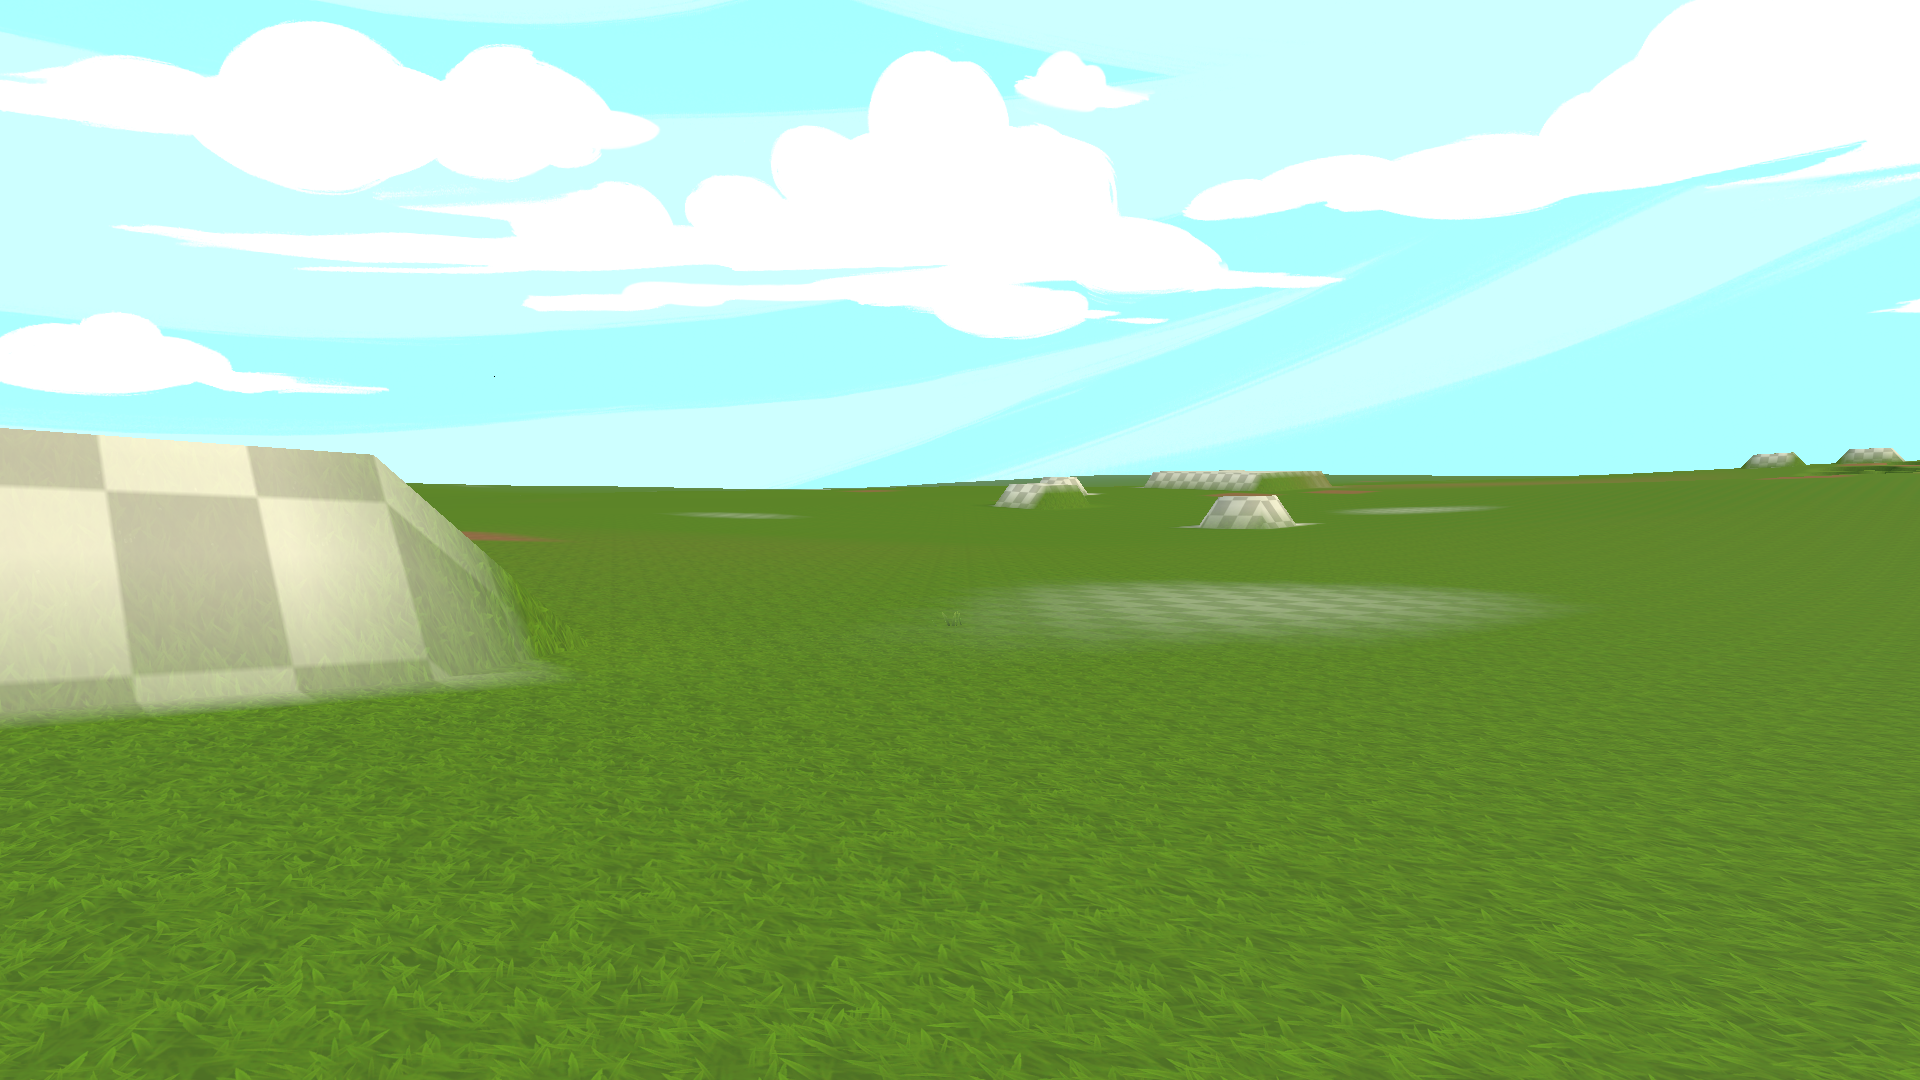
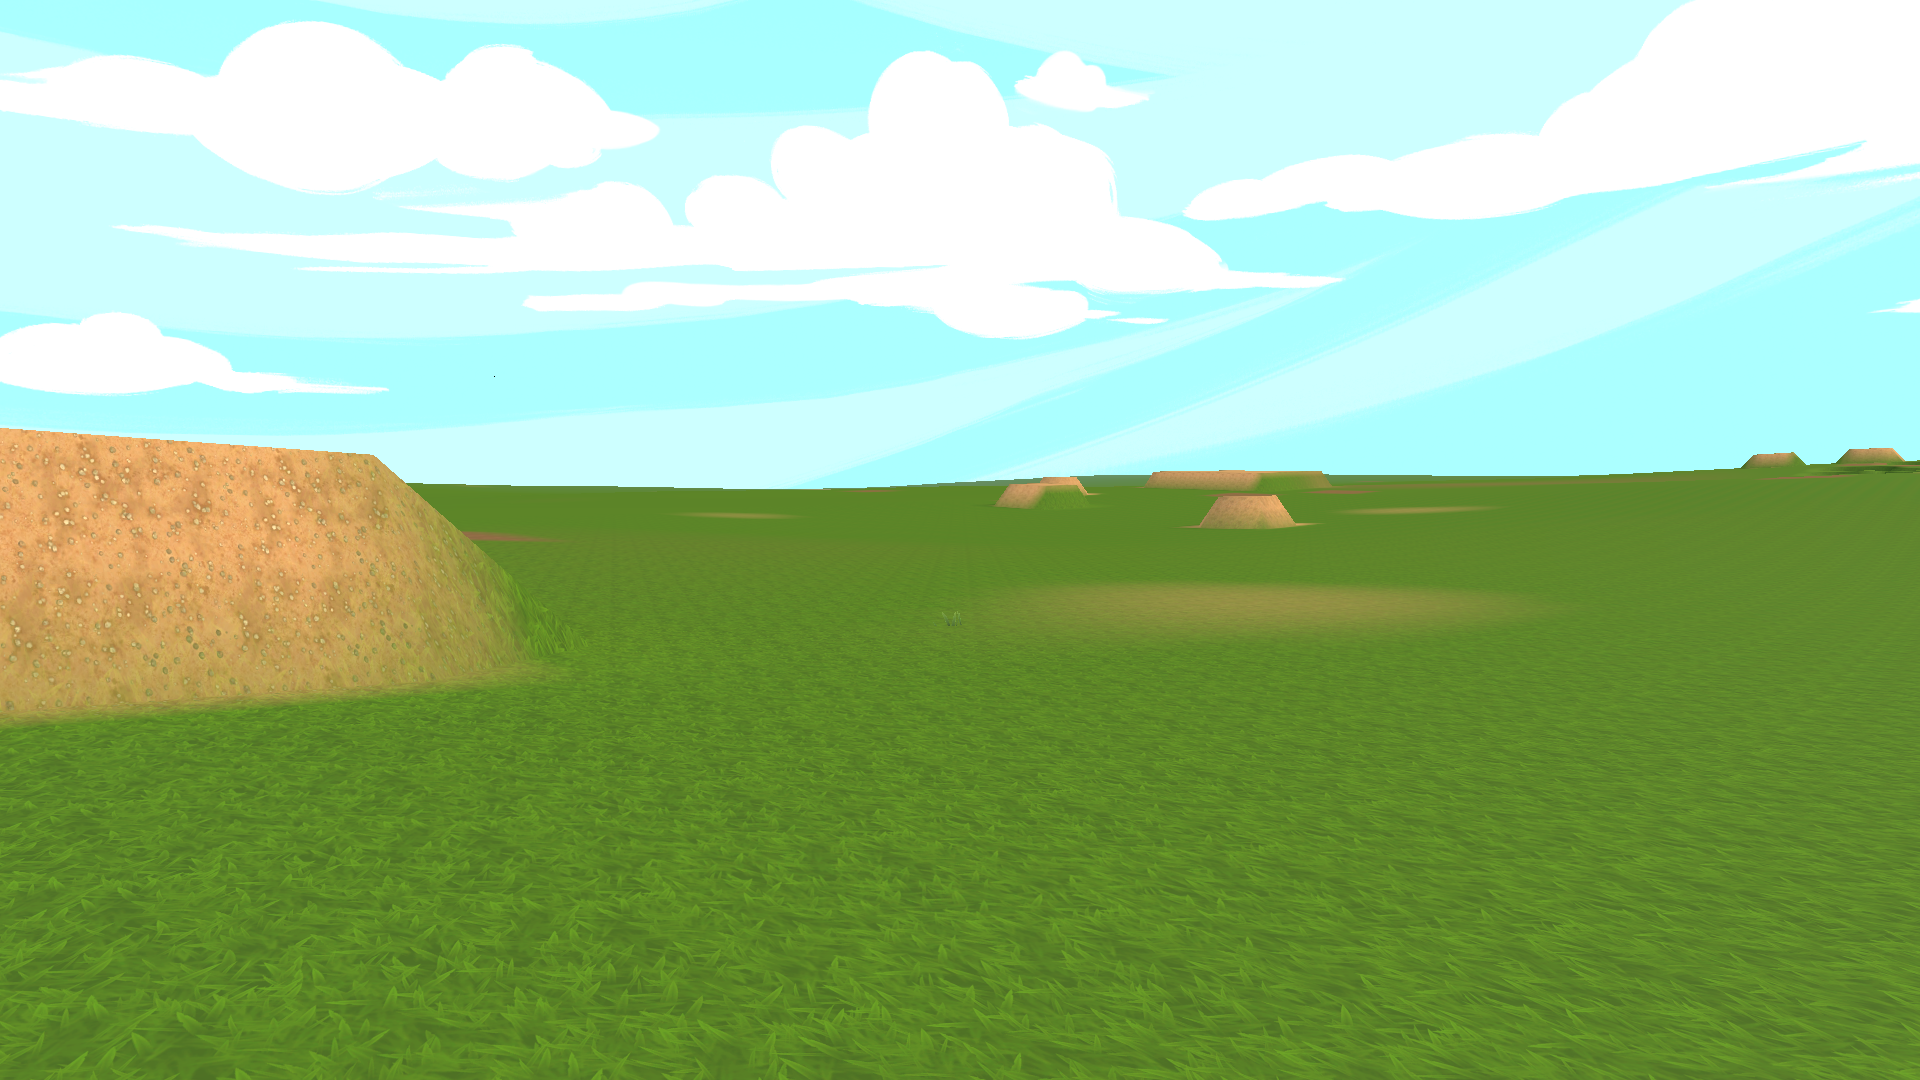
TD-100: THE WHITE THINGS WERE THE GROUND (D-213)
The answer to Patrik's "stones that are too big" — and it was never an object at all.

Layer_Rock and Layer_Cobblestone exist as terrain layer assets and carry NO DIFFUSE TEXTURE. The
alphamap paints Layer_Rock across every stone tile (313 of 7000, scattered over hills), so those
patches of GROUND rendered as flat white checker. From eye level they read as pale mounds sitting on
the land — which is exactly what they were mistaken for, through eight hypotheses aimed at objects.

WHY IT SURVIVED SO MANY PASSES: every inventory the probe ran skipped Terrain by design
(`if (go.GetComponent<Terrain>() != null) continue`), because terrain is not a prop. So the one
surface that WAS wrong could never appear in a list of suspects, and each new check confirmed, quite
correctly, that the houses and villagers were fine. The lesson is the exclusion, not the bug: an
inventory that filters by category cannot find a defect in the category it filters out.

Two other readings had to be corrected on the way, both of them the probe lying rather than the game:
* char1 reported tex=NONE. False. glTFast's Shader Graph does not use _BaseMap or _MainTex, and the
  probe only knew URP's names. The villager GLBs carry a baseColorTexture and TEXCOORD_0; asked
  properly, the material answers texture_0. FirstTexture() now walks the shader's own property list.
* The houses were never white either (D-212). Confirmed a second time here.

THE FIX — A LAYER WITHOUT A TEXTURE IS NOT A LAYER:
[…]

diff --git a/Assets/Emergence/Fas1/Editor/GroundCaptureProbe.cs b/Assets/Emergence/Fas1/Editor/GroundCaptureProbe.cs
@@ -172,7 +172,17 @@ namespace Emergence.Editor
                     sb.AppendLine("     layers: " + string.Join(", ", names));
                     Check(td.terrainLayers.Length >= 4, "at least four ground materials (" + td.terrainLayers.Length + ")");
                     int textured = td.terrainLayers.Count(l => l != null && l.diffuseTexture != null && l.diffuseTexture != Texture2D.whiteTexture);
-                    Check(textured >= 3, textured + " layers carry a REAL texture (a fallback layer is flat white tinted)");
+                    // NAME EVERY LAYER AND ITS TEXTURE. The checkered mounds sit ON the terrain and the
+                    // inventory above skips Terrain by design — so a textureless GROUND layer could
+                    // never be found by it. This is where it would hide.
+                    for (int li = 0; li < td.terrainLayers.Length; li++)
+                    {
+                        var L = td.terrainLayers[li];
+                        sb.AppendLine("       layer " + li + ": " + (L != null ? L.name : "NULL").PadRight(22)
+                                      + " diffuse=" + (L != null && L.diffuseTexture != null ? L.diffuseTexture.name + " " + L.diffuseTexture.width + "px" : "*** NONE — THIS RENDERS AS FLAT/CHECKER ***")
+                                      + (L != null ? "  tile=" + L.tileSize : ""));
+                    }
+                    Check(textured >= 5, textured + " of " + td.terrainLayers.Length + " layers carry a REAL texture (a fallback layer is flat white tinted)");
                     Check(td.detailPrototypes.Length > 0, "the meadow has detail prototypes (" + td.detailPrototypes.Length + " grass/flower)");
                     sb.AppendLine();
                 }
@@ -237,6 +247,38 @@ namespace Emergence.Editor
                 sb.AppendLine("     tallest object: " + tallestName + " = " + tallest.ToString("F1") + " m"
                               + (villagerH > 0.1f ? " (" + (tallest / villagerH).ToString("F1") + "x a villager)" : ""));
                 foreach (var r2 in rows) sb.AppendLine(r2);
+
+                // NAME EVERYTHING. Six hypotheses missed the white objects because every check was
+                // conditional — only flagged rows were printed, and the offenders passed every flag.
+                // So: list the biggest things in the world unconditionally, with their full parent
+                // chain, so an unidentified object can never hide behind a clean bill of health again.
+                sb.AppendLine();
+                sb.AppendLine("     THE TEN LARGEST OBJECTS (unconditional — nothing hides here):");
+                var big = new List<(float vol, string line)>();
+                foreach (var rr3 in rends)
+                {
+                    if (rr3 == null || !rr3.enabled || rr3 is ParticleSystemRenderer) continue;
+                    if (rr3.gameObject.GetComponent<Terrain>() != null) continue;
+                    var bb3 = rr3.bounds;
+                    if (bb3.size.y <= 0.001f) continue;
+                    float vol = bb3.size.x * bb3.size.y * bb3.size.z;
+                    string chain = rr3.name;
+                    var p3 = rr3.transform.parent;
+                    int guard = 0;
+                    while (p3 != null && guard++ < 4) { chain = p3.name + " / " + chain; p3 = p3.parent; }
+                    var m3 = rr3.sharedMaterial;
+                    Texture t3 = null;
+                    // NOTE: glTFast's Shader Graph does not use _BaseMap/_MainTex — reading only those
+                    // reported our own villager GLBs as textureless, which the source files disprove
+                    // (they carry a baseColorTexture and TEXCOORD_0). Ask the material what it actually has.
+                    if (m3 != null) t3 = FirstTexture(m3);
+                    big.Add((vol, "       " + bb3.size.x.ToString("F1") + "x" + bb3.size.y.ToString("F1") + "x" + bb3.size.z.ToString("F1") + " m  "
+                                  + chain + "   mat=" + (m3 != null ? m3.name : "none")
+                                  + "  tex=" + (t3 != null ? t3.name : "NONE")
+                                  + "  slots=" + (rr3.sharedMaterials != null ? rr3.sharedMaterials.Length : 0)
+                                  + "  at " + bb3.center.ToString("F0")));
+                }
+                foreach (var e3 in big.OrderByDescending(x => x.vol).Take(10)) sb.AppendLine(e3.line);
                 Check(measured > 0, "there is something standing on the ground at all (" + measured + " renderers)");
                 Check(defaultMat == 0, "NOTHING wears Unity's default material (" + defaultMat + " do — that IS the grey checker Patrik saw)");
                 Check(sunk == 0, "NOTHING sinks through the ground (" + sunk + " do)");
@@ -279,6 +321,30 @@ namespace Emergence.Editor
                     RenderSettings.fog = fogWas;
                     sb.AppendLine("     " + cam2Note + " -> Reports/house-in-scene.png");
                 }
+                // and the same treatment for a VILLAGER — the ten-largest list named char1 as the
+                // suspect, so put it in front of the lens under the same conditions as the house.
+                Renderer soul = null; float soulSize = 0f;
+                foreach (var rr4 in UnityEngine.Object.FindObjectsByType<Renderer>(FindObjectsSortMode.None))
+                {
+                    if (rr4 == null || !rr4.name.StartsWith("char")) continue;
+                    if (rr4.bounds.size.y > soulSize) { soulSize = rr4.bounds.size.y; soul = rr4; }
+                }
+                if (soul != null)
+                {
+                    var b4 = soul.bounds;
+                    float d4 = Mathf.Max(3.5f, b4.size.magnitude * 1.4f);
+                    var c4 = Camera.main;
+                    c4.transform.position = b4.center + new Vector3(d4 * 0.7f, d4 * 0.25f, d4 * 0.7f);
+                    c4.transform.LookAt(b4.center);
+                    bool fw = RenderSettings.fog; RenderSettings.fog = false;
+                    CaptureRaw("villager-in-scene");
+                    RenderSettings.fog = fw;
+                    var mt = soul.sharedMaterial;
+                    sb.AppendLine("     close-up on " + soul.name + " (" + b4.size.y.ToString("F1") + " m) mat=" + (mt != null ? mt.name : "none")
+                                  + " shader=" + (mt != null && mt.shader != null ? mt.shader.name : "-")
+                                  + " tex=" + (mt != null && FirstTexture(mt) != null ? FirstTexture(mt).name : "NONE")
+                                  + " -> Reports/villager-in-scene.png");
+                }
                 sb.AppendLine("     " + camNote);
                 Check(magenta >= 0, "capture written");
                 Check(magenta == 0, "no missing-material magenta in frame (" + magenta + " px)");
@@ -306,6 +372,23 @@ namespace Emergence.Editor
 
         /// <summary>Stand a camera at a person's height on the land and look across it. Manual RT capture
         /// (D-125: ScreenCapture yields a white frame on an unattended editor).</summary>
+        /// <summary>The first real texture on a material, whatever the shader calls it. A probe that
+        /// only knows URP's names will call every glTF material textureless and send the hunt sideways.</summary>
+        static Texture FirstTexture(Material m)
+        {
+            if (m == null || m.shader == null) return null;
+            foreach (var n in new[] { "_BaseMap", "_MainTex", "baseColorTexture", "_baseColorTexture", "_BaseColorTexture" })
+                if (m.HasProperty(n)) { var t = m.GetTexture(n); if (t != null) return t; }
+            int count = UnityEditor.ShaderUtil.GetPropertyCount(m.shader);
+            for (int i = 0; i < count; i++)
+                if (UnityEditor.ShaderUtil.GetPropertyType(m.shader, i) == UnityEditor.ShaderUtil.ShaderPropertyType.TexEnv)
+                {
+                    var t = m.GetTexture(UnityEditor.ShaderUtil.GetPropertyName(m.shader, i));
+                    if (t != null) return t;
+                }
+            return null;
+        }
+
         static string cam2Note = "";
 
         /// <summary>Grab whatever the camera is currently looking at, without re-framing.</summary>

diff --git a/Assets/Emergence/Fas3/Editor/CatalogBuild.cs b/Assets/Emergence/Fas3/Editor/CatalogBuild.cs
@@ -149,7 +149,8 @@ namespace Emergence.Editor
             // AssetDatabase. Names are exactly the dresser's own candidates, preference order intact.
             cat.terrainLayers.Clear();
             var wantedLayers = new[] { "Layer_Grass", "Layer_grass_01", "Layer_farmfield", "Layer_Dirt",
-                                       "Layer_Rock", "Layer_gravel_01", "Layer_Cobblestone", "Layer_pavingstone_01" };
+                                       "Layer_Rock", "Layer_gravel_01", "Layer_Stone", "Layer_rock_01",
+                                       "Layer_Cobblestone", "Layer_pavingstone_01", "Layer_Sand" };
             int lok = 0;
             foreach (var ln in wantedLayers)
             {
@@ -160,7 +161,7 @@ namespace Emergence.Editor
                     if (Path.GetFileNameWithoutExtension(p) == ln) { tl = AssetDatabase.LoadAssetAtPath<TerrainLayer>(p); break; }
                 }
                 cat.terrainLayers.Add(new EmergenceAssetCatalog.TerrainLayerEntry { name = ln, layer = tl });
-                if (tl != null) lok++;
+                if (tl != null) { lok++; if (tl.diffuseTexture == null) sb.AppendLine($"  WARNING: terrain layer {ln} has NO diffuse texture — it would render as flat checker"); }
             }
             sb.AppendLine($"terrain layers resolved: {lok}/{wantedLayers.Length}  [{string.Join(", ", cat.terrainLayers.Where(t => t.layer != null).Select(t => t.name))}]");
 

diff --git a/Assets/Emergence/Runtime/EmergenceAssetCatalog.cs b/Assets/Emergence/Runtime/EmergenceAssetCatalog.cs
@@ -70,6 +70,17 @@ namespace Emergence.Runtime
         public TerrainLayer TerrainLayer(string[] candidates)
         {
             if (candidates == null) return null;
+            // A LAYER WITHOUT A TEXTURE IS NOT A LAYER (2026-08-14, D-213). Layer_Rock and
+            // Layer_Cobblestone exist as assets but carry NO diffuse texture, so the ground painted
+            // with them rendered as flat white checker — the "big white stones" in Patrik's field
+            // report, scattered exactly where the alphamap puts stone. Taking the first NAME match
+            // was the bug; take the first match that can actually be seen, and only fall back to a
+            // textureless one if nothing better exists.
+            foreach (var nm in candidates)
+                for (int i = 0; i < terrainLayers.Count; i++)
+                    if (terrainLayers[i].layer != null && terrainLayers[i].layer.diffuseTexture != null &&
+                        string.Equals(terrainLayers[i].name, nm, StringComparison.OrdinalIgnoreCase))
+                        return terrainLayers[i].layer;
             foreach (var nm in candidates)
                 for (int i = 0; i < terrainLayers.Count; i++)
                     if (terrainLayers[i].layer != null &&

diff --git a/Assets/Emergence/Fas3/Runtime/Fas3TerrainBuilder.cs b/Assets/Emergence/Fas3/Runtime/Fas3TerrainBuilder.cs
@@ -118,8 +118,8 @@ namespace Emergence.Runtime
                 grass  = Add(cat, layers, new[] { "Layer_Grass", "Layer_grass_01" }, new Color(0.35f, 0.5f, 0.22f)),
                 field  = Add(cat, layers, new[] { "Layer_farmfield", "Layer_Dirt" }, new Color(0.45f, 0.35f, 0.2f)),
                 path   = Add(cat, layers, new[] { "Layer_Dirt" }, new Color(0.42f, 0.32f, 0.2f)),
-                gravel = Add(cat, layers, new[] { "Layer_Rock", "Layer_gravel_01" }, new Color(0.5f, 0.48f, 0.45f)),
-                cobble = Add(cat, layers, new[] { "Layer_Cobblestone", "Layer_pavingstone_01" }, new Color(0.55f, 0.53f, 0.5f)),
+                gravel = Add(cat, layers, new[] { "Layer_gravel_01", "Layer_Rock", "Layer_Stone", "Layer_rock_01" }, new Color(0.5f, 0.48f, 0.45f)),
+                cobble = Add(cat, layers, new[] { "Layer_pavingstone_01", "Layer_Cobblestone", "Layer_Dirt" }, new Color(0.55f, 0.53f, 0.5f)),
             };
             data.terrainLayers = layers.ToArray();
             return idx;
